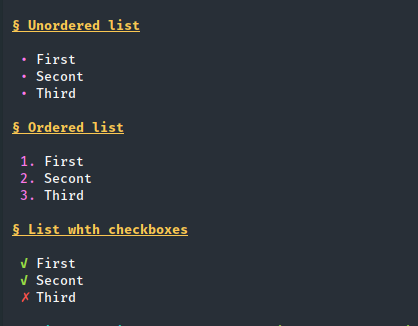
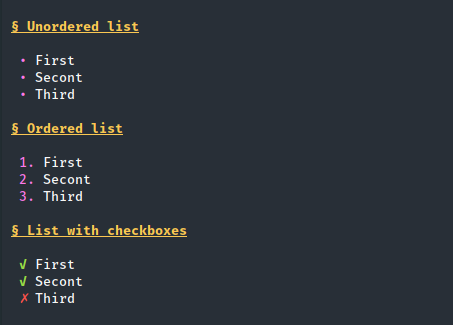
Fix typo

diff --git a/test.md b/test.md
@@ -10,7 +10,7 @@
 1. Secont 
 1. Third
 
-### List whth checkboxes
+### List with checkboxes
 
 * [X] First 
 * [X] Secont 
